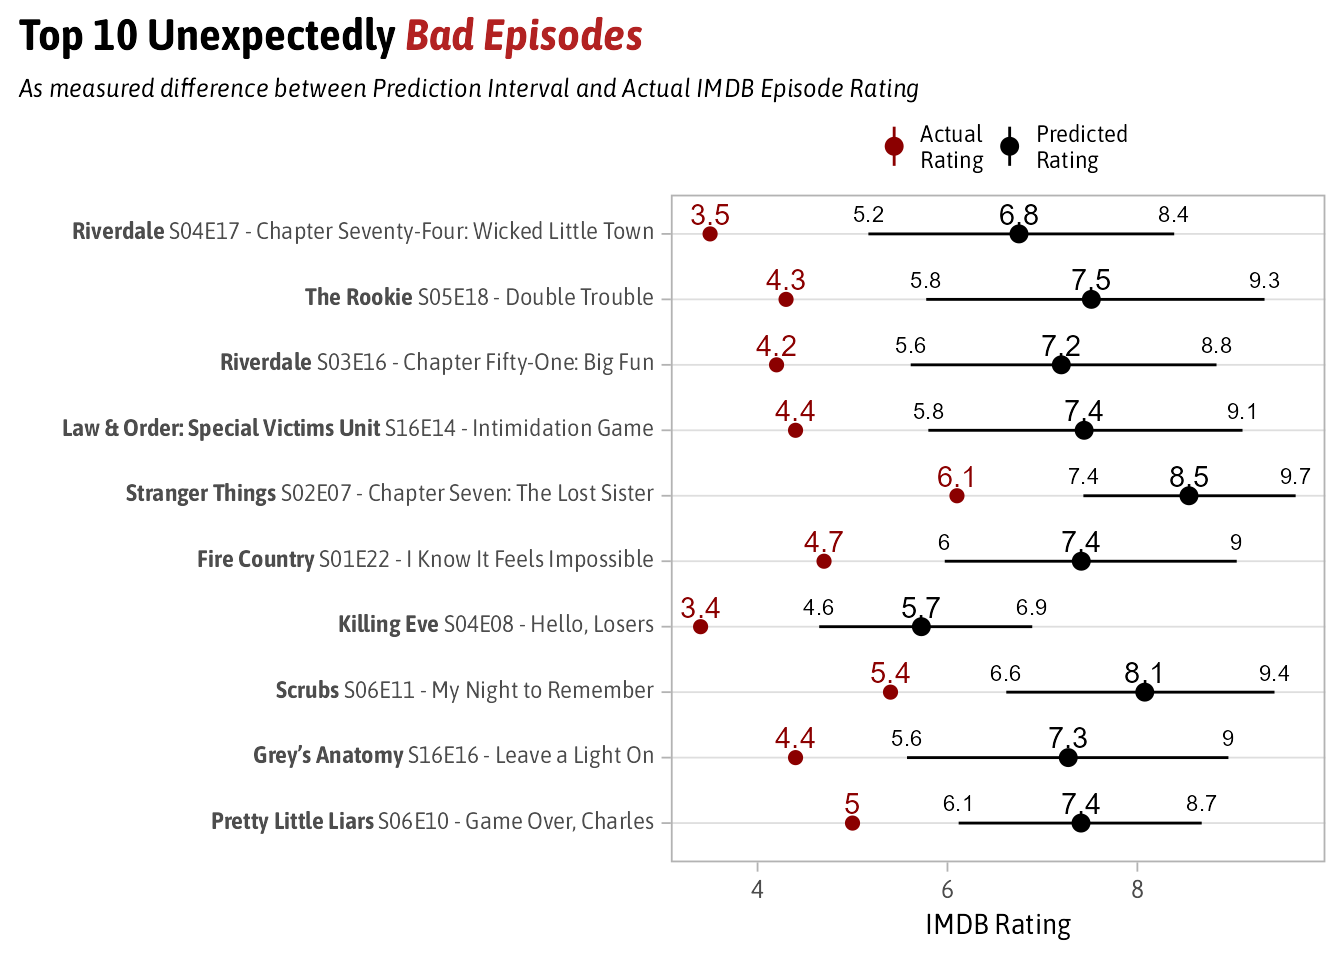
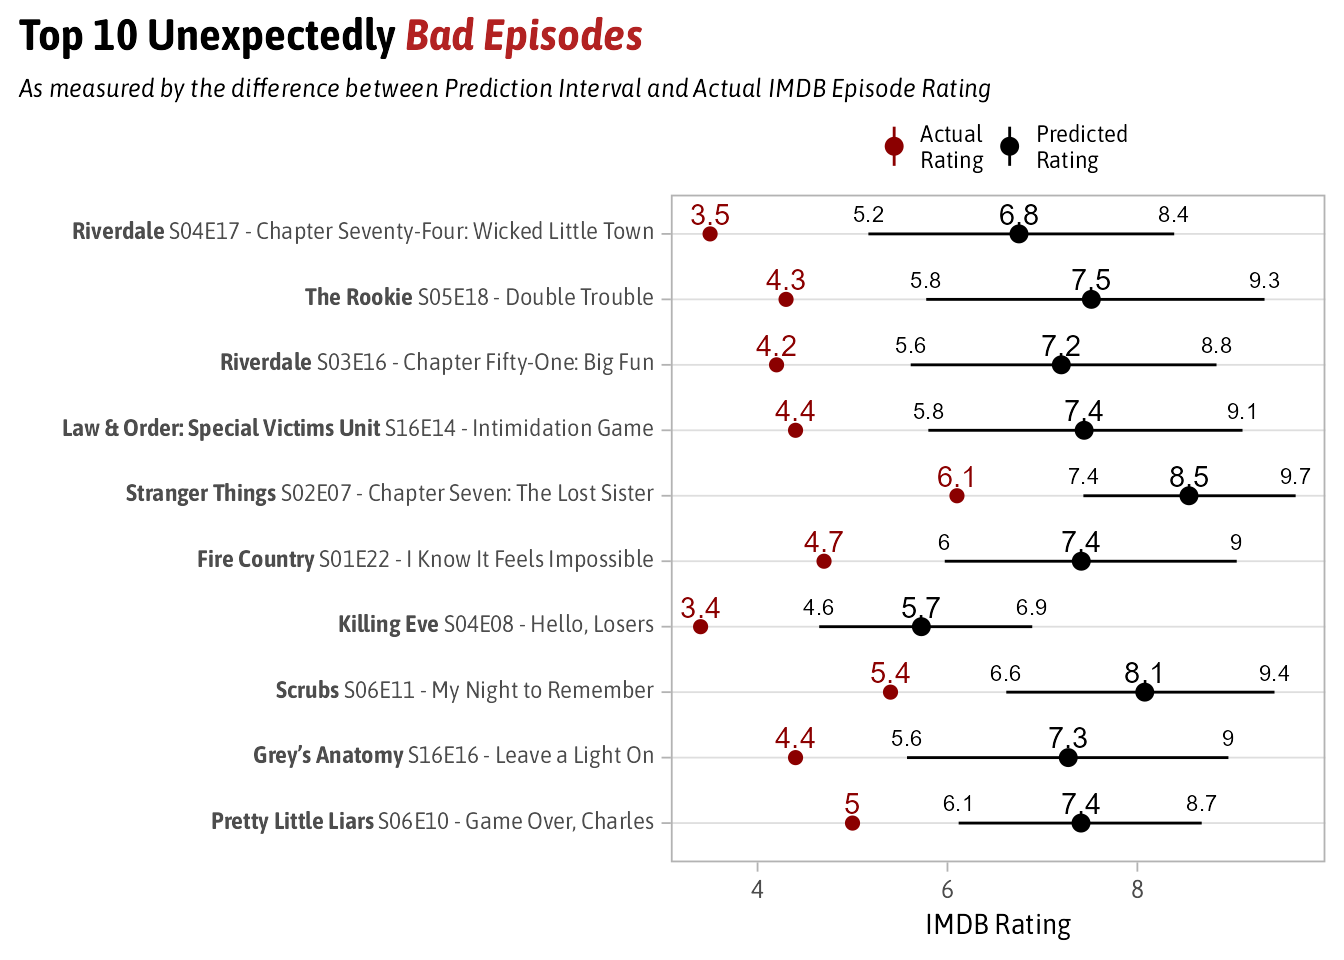
Tweaks to graph subtitles

Changed region(s): [[0.125, 0.0625, 0.7188, 0.125]]

diff --git a/content/post/2023-09-28-the-most-unexpectedly-good-and-bad-tv-episodes/index.html b/content/post/2023-09-28-the-most-unexpectedly-good-and-bad-tv-episodes/index.html
@@ -288,7 +288,7 @@ good_results %&gt;%
   scale_color_manual(values = color, name = &#39;&#39;) +
   labs(x = &quot;&quot;, y = &quot;IMDB Rating&quot;, 
        title = &quot;Top 10 Unexpectedly &lt;i style = &#39;color:#2E8B57&#39;&gt;Good Episodes &lt;/i&gt;&quot;,
-       subtitle = &quot;*As measured difference between Prediction Interval and Actual IMDB Episode Rating*&quot;) +
+       subtitle = &quot;*As measured by the difference between Prediction Interval and Actual IMDB Episode Rating*&quot;) +
   coord_flip() + 
   theme(
     plot.title = element_markdown(),
@@ -336,7 +336,7 @@ bad_results %&gt;%
     scale_color_manual(values = color, name = &#39;&#39;) +
     labs(x = &quot;&quot;, y = &quot;IMDB Rating&quot;, 
          title = &quot;Top 10 Unexpectedly &lt;i style = &#39;color:#b22222&#39;&gt;Bad Episodes &lt;/i&gt;&quot;,
-         subtitle = &quot;*As measured difference between Prediction Interval and Actual IMDB Episode Rating*&quot;) +
+         subtitle = &quot;*As measured by the difference between Prediction Interval and Actual IMDB Episode Rating*&quot;) +
     coord_flip() + 
     theme(
       plot.title = element_markdown(),
